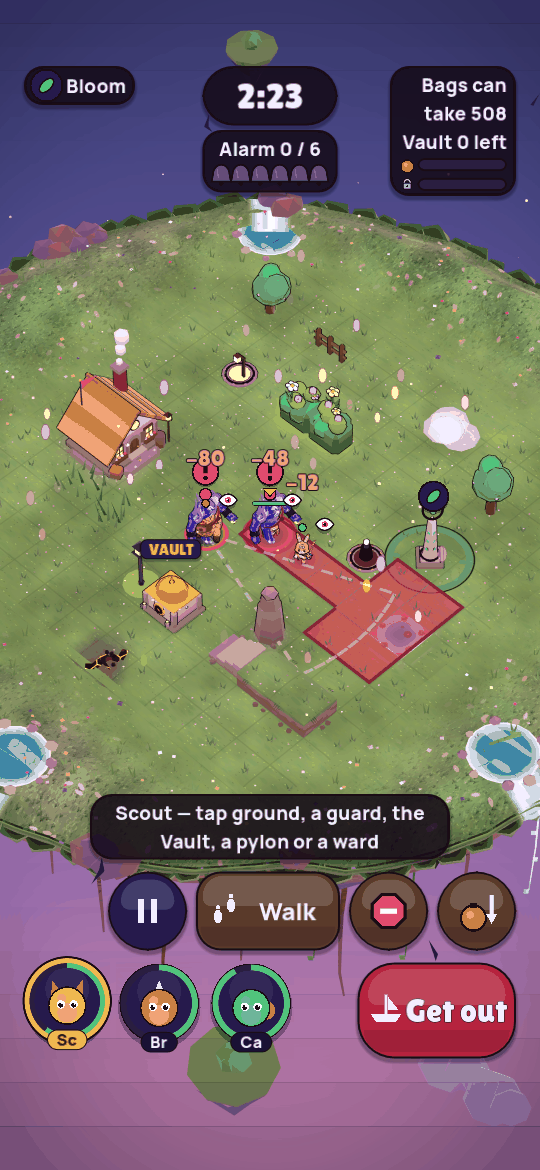
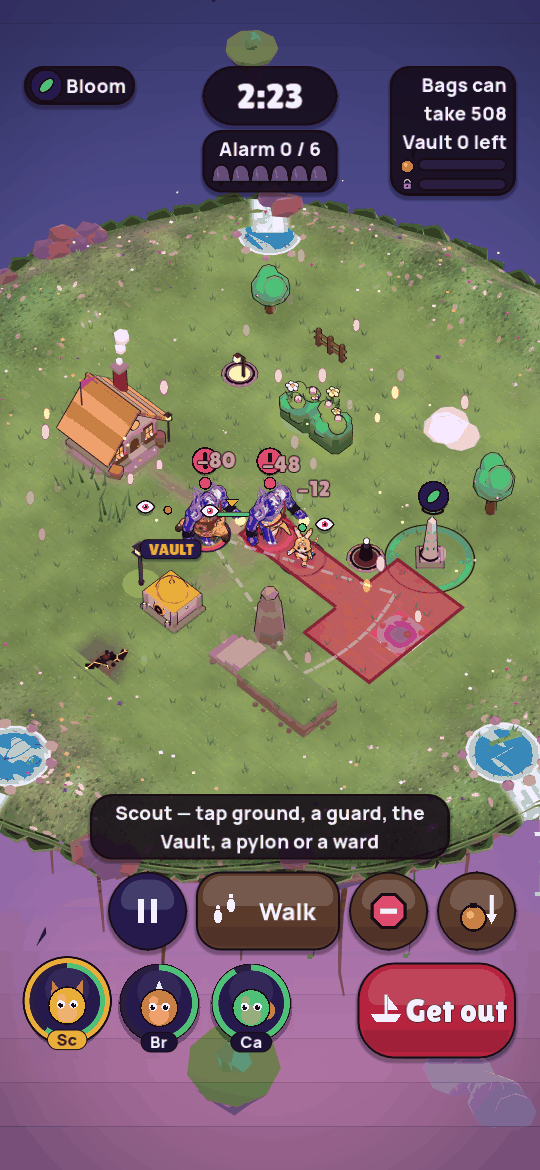
LawFx.attach returns the view's own LawFx for the same replay, so WorldView's wiring and a caller never double it; sheets hold their chosen moment; the heist screen still through T5's wiring

diff --git a/docs/art/tracks/t8.md b/docs/art/tracks/t8.md
@@ -145,6 +145,13 @@ The API is stable, and LawFx needs nothing else from the view.
 - **Cost.** A signature is 2–4 draw calls and a few hundred triangles, at most 6,000 and 8.
 - **Movement on characters.** `LawFxCreature.apply(c, laws, seconds, moving)` poses a `CreatureModel`'s own body without moving the model off its place. It handles bounce scaled to the character's height, lean, sway, crouch, float, the slide or leap clip a gait asks for, and the clip's speed. `LawFxCreature.rest(c)` undoes it. `law_gaits.gd` renders T1's characters under seven laws (`docs/art/shots/t8/gaits.png`).
 
+## The third integration
+
+LawFx is now live everywhere `WorldView` draws a realm. T5 calls `LawFx.attach(self, replay)` from `WorldView` itself and syncs it each tick, behind the static switch `WorldView.law_effects`. FxLaws keeps only the movement signatures.
+
+- `LawFx.attach` now returns the view's own `law_fx` if it already draws that replay, so a second caller never doubles the signatures.
+- `heist_screen_bloom.png` shows the real heist screen with T1's creatures and LawFx through T5's own wiring.
+
 ## Resumed (14:34 UTC)
 
 - Merged the second integration (`d694b73`).
